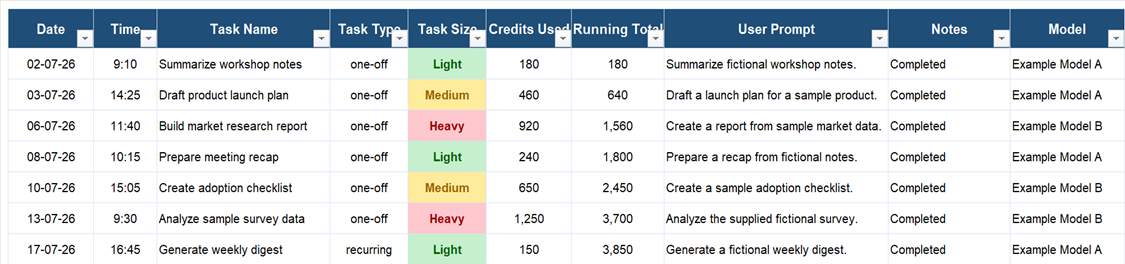
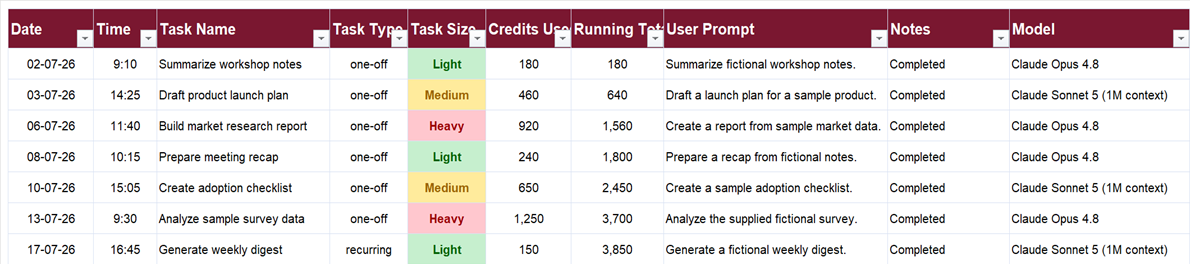
Match workbook styling in README previews

diff --git a/README.md b/README.md
@@ -40,30 +40,32 @@ How many Heavy tasks did I run last month?
 
 ## Workbook Screenshots
 
-All examples below are fictional.
+All task and credit data below is fictional. Model labels in the Usage preview match
+models recorded by the tracker.
 
 ### Usage Tab
 
 ![Excel tracker sample with color-coded Light, Medium, and Heavy tasks](assets/usage-tracker-sheet.png)
 
 *Fictional Excel-rendered Usage tab showing the complete A-J schema end to end. The
-colored header includes filters; Light is green, Medium is amber, and Heavy is red.*
+header matches the canonical workbook; Light is green, Medium is amber, Heavy is red,
+and the Model column uses actual model names.*
 
 ### July Credits Tab
 
 ![Fictional July credit summary with weekly totals and task-size breakdown](assets/july-credits-sheet.png)
 
-*Fictional Excel-rendered July Credits tab showing weekly consumption, the monthly
-total, and credits and prompt counts by task size.*
+*Fictional Excel-rendered July Credits tab, proportioned to the Usage preview, showing
+weekly consumption, the monthly total, and credits and prompt counts by task size.*
 
 ### Accessible Data Sample
 
 | Date | Time | Task Name | Task Type | Task Size | Credits Used | Running Total | User Prompt | Notes | Model |
 |---|---|---|---|---|---:|---:|---|---|---|
-| 2026-07-02 | 09:10 | Summarize workshop notes | one-off | Light | 180 | 180 | Summarize these fictional workshop notes. | Completed | Example Model A |
-| 2026-07-03 | 14:25 | Draft product launch plan | one-off | Medium | 460 | 640 | Draft a launch plan for a sample product. | Completed | Example Model A |
-| 2026-07-06 | 11:40 | Build market research report | one-off | Heavy | 920 | 1560 | Create a research report from sample data. | Completed | Example Model B |
-| 2026-07-08 | 10:15 | Prepare meeting recap | one-off | Light | 240 | 1800 | Prepare a recap from fictional meeting notes. | Completed | Example Model A |
+| 2026-07-02 | 09:10 | Summarize workshop notes | one-off | Light | 180 | 180 | Summarize these fictional workshop notes. | Completed | Claude Opus 4.8 |
+| 2026-07-03 | 14:25 | Draft product launch plan | one-off | Medium | 460 | 640 | Draft a launch plan for a sample product. | Completed | Claude Sonnet 5 (1M context) |
+| 2026-07-06 | 11:40 | Build market research report | one-off | Heavy | 920 | 1560 | Create a research report from sample data. | Completed | Claude Opus 4.8 |
+| 2026-07-08 | 10:15 | Prepare meeting recap | one-off | Light | 240 | 1800 | Prepare a recap from fictional meeting notes. | Completed | Claude Opus 4.8 |
 
 ## Weekly Summary Sample
 